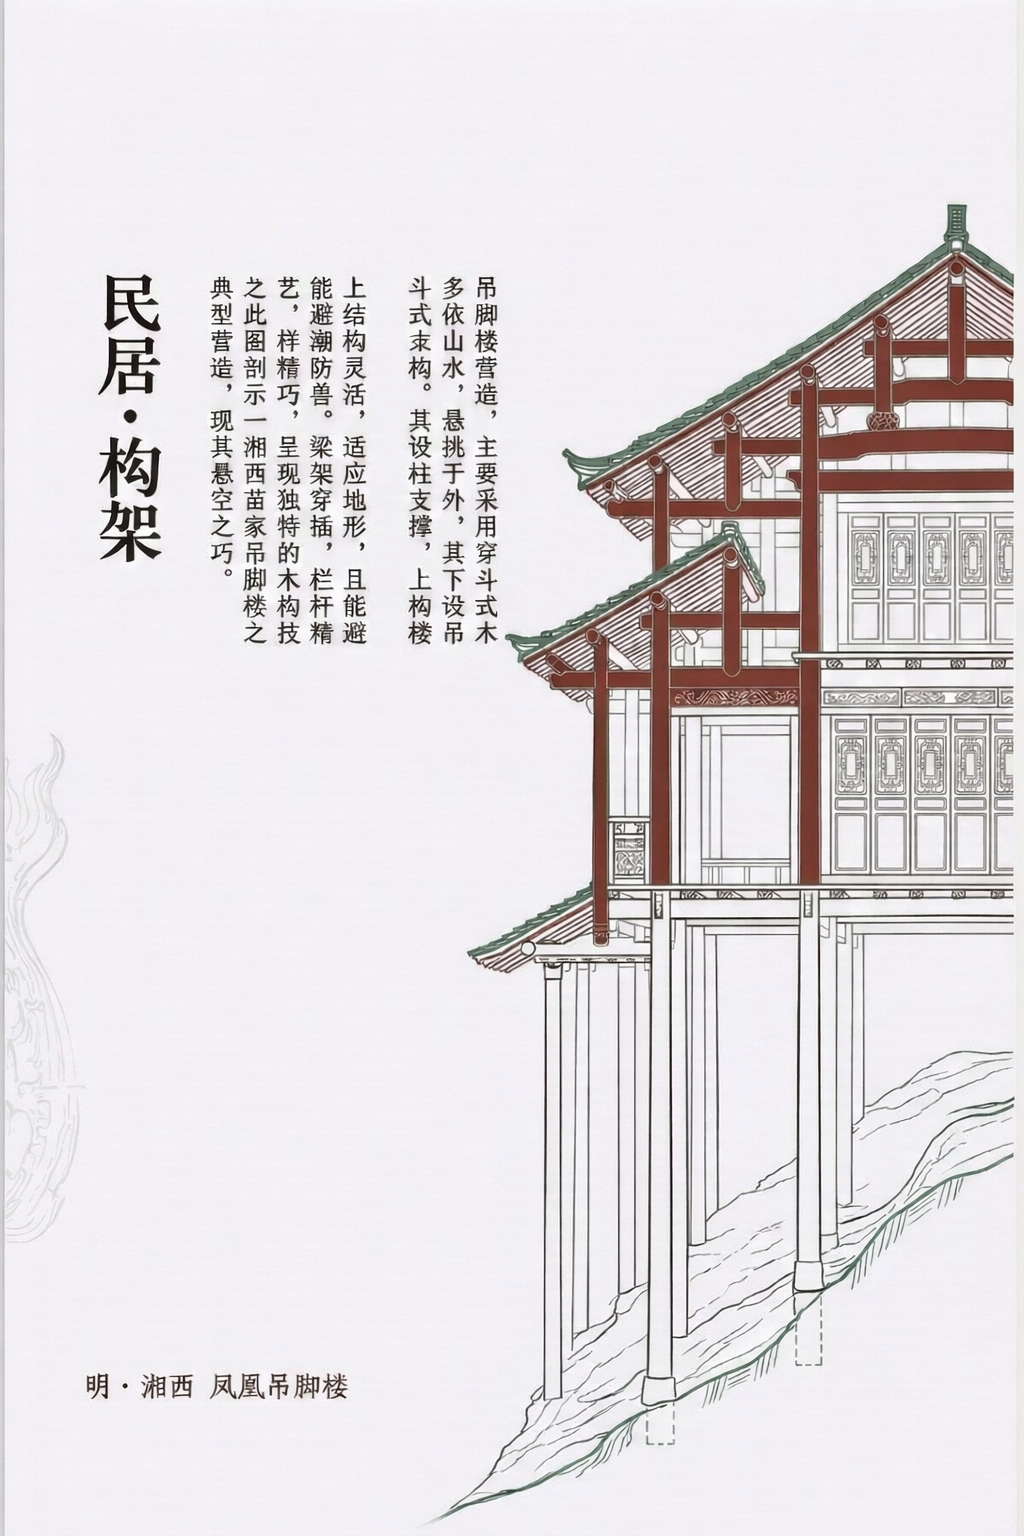
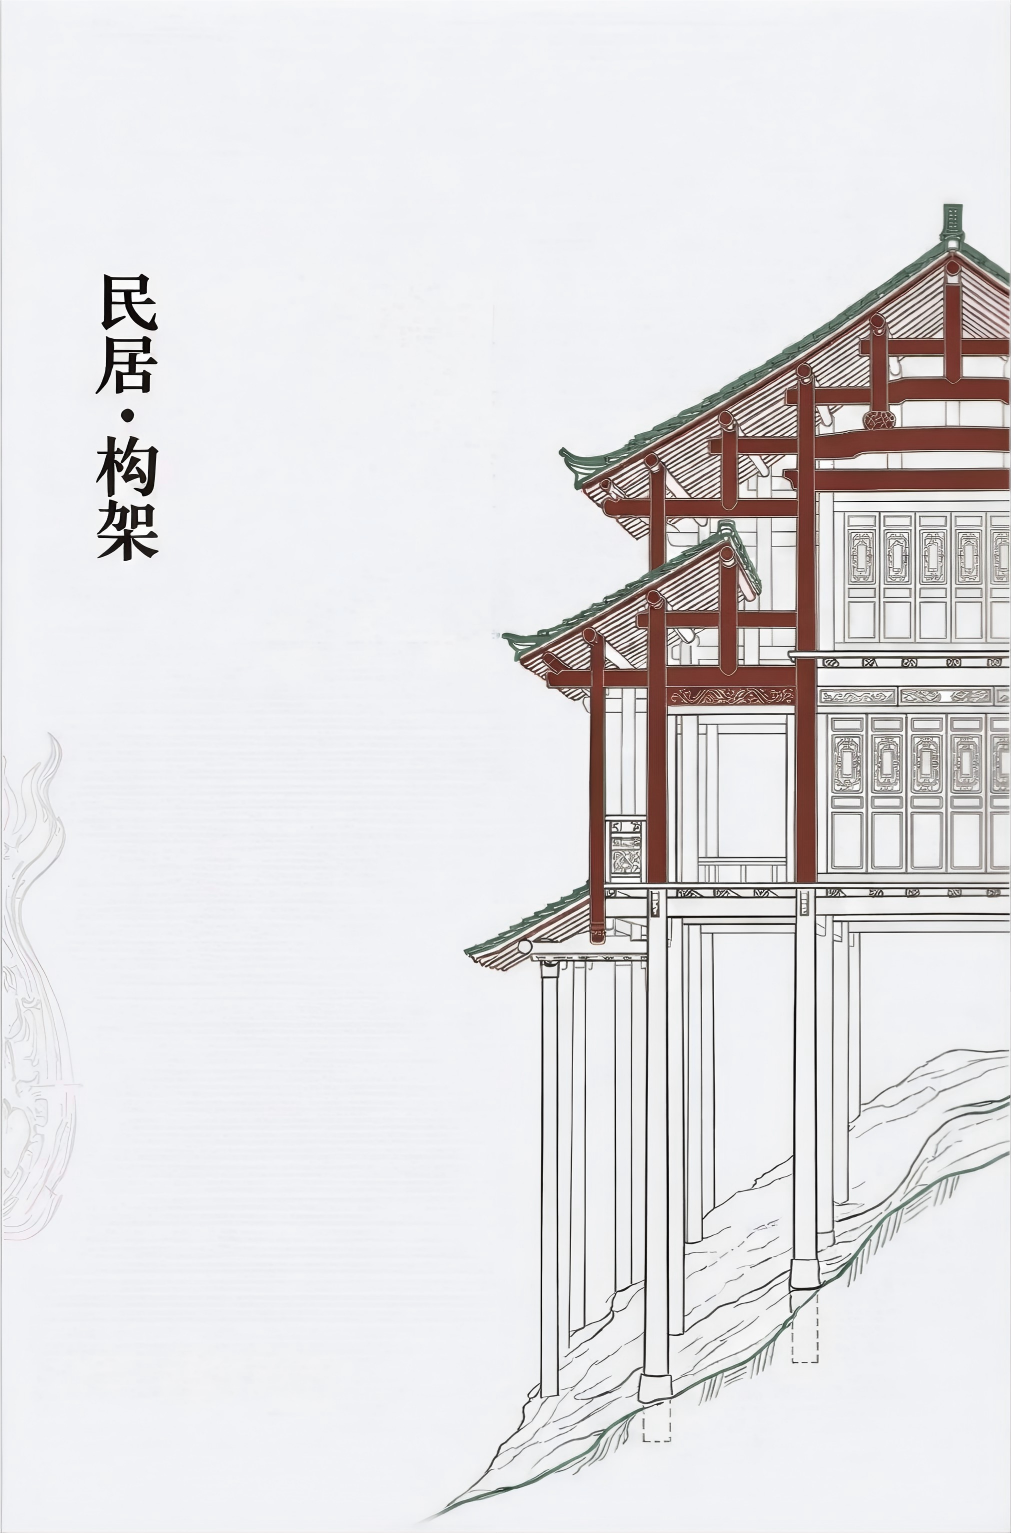
feat: update building section cover posters

diff --git a/src/views/BuildingSectionDemoView.vue b/src/views/BuildingSectionDemoView.vue
@@ -64,6 +64,17 @@
                   <p>{{ category.summary }}</p>
                 </div>
               </div>
+              <div v-else class="category-slab__poster-copy">
+                <div class="category-slab__poster-head">
+                  <div class="category-slab__seal">{{ category.seal }}</div>
+                  <div class="category-slab__poster-title-wrap">
+                    <div class="category-slab__title">{{ category.title }}</div>
+                    <div class="category-slab__alias">{{ category.alias }}</div>
+                    <div class="category-slab__english">{{ category.english }}</div>
+                  </div>
+                </div>
+                <p>{{ category.summary }}</p>
+              </div>
 
               <div class="category-slab__art">
                 <ArchitectureSketch
@@ -386,12 +397,20 @@ watch(
   min-height: 0;
 }
 
+.stage--home {
+  margin: -14px;
+  height: calc(100% + 28px);
+}
+
 .category-grid {
   height: 100%;
   min-height: 0;
   display: grid;
   grid-template-columns: repeat(4, minmax(0, 1fr));
-  gap: 14px;
+  gap: 0;
+  background:
+    linear-gradient(180deg, rgba(244, 238, 227, 0.18), rgba(233, 225, 210, 0.1)),
+    rgba(241, 235, 224, 0.16);
 }
 
 .category-slab {
@@ -402,15 +421,30 @@ watch(
   flex-direction: column;
   justify-content: space-between;
   overflow: hidden;
-  padding: 18px;
-  border: 1px solid rgba(147, 116, 93, 0.16);
-  background:
-    linear-gradient(180deg, rgba(248, 243, 235, 0.74), rgba(236, 228, 214, 0.86)),
-    linear-gradient(180deg, rgba(255, 255, 255, 0.14), transparent 44%);
-  box-shadow: 0 14px 30px rgba(72, 54, 41, 0.08);
+  padding: 26px 20px 22px;
+  border: none;
+  background: transparent;
+  box-shadow: none;
   text-align: left;
   cursor: pointer;
-  transition: transform 0.28s ease, box-shadow 0.28s ease, border-color 0.28s ease, filter 0.28s ease;
+  isolation: isolate;
+  transition: transform 0.28s ease, filter 0.28s ease, background-color 0.28s ease;
+}
+
+.category-slab::after {
+  content: '';
+  position: absolute;
+  top: 0;
+  right: 0;
+  width: 1px;
+  height: 100%;
+  background:
+    linear-gradient(180deg, transparent, rgba(126, 98, 78, 0.22) 14%, rgba(126, 98, 78, 0.26) 80%, transparent);
+  opacity: 0.95;
+}
+
+.category-slab:last-child::after {
+  display: none;
 }
 
 .category-slab--poster {
@@ -444,9 +478,10 @@ watch(
   position: absolute;
   inset: 0;
   background:
-    linear-gradient(180deg, rgba(255, 255, 255, 0.18), transparent 35%),
-    radial-gradient(circle at 78% 20%, color-mix(in srgb, var(--accent-color) 8%, transparent), transparent 30%);
-  opacity: 0.88;
+    linear-gradient(180deg, rgba(255, 255, 255, 0.12), transparent 30%),
+    linear-gradient(180deg, rgba(218, 208, 192, 0.12), transparent 55%),
+    radial-gradient(circle at 78% 20%, color-mix(in srgb, var(--accent-color) 6%, transparent), transparent 32%);
+  opacity: 0.72;
 }
 
 .category-slab--poster::before {
@@ -456,10 +491,8 @@ watch(
 }
 
 .category-slab:hover {
-  transform: translateY(-6px) scale(1.01);
-  border-color: color-mix(in srgb, var(--outline-color) 28%, rgba(147, 116, 93, 0.2));
-  box-shadow: 0 20px 38px rgba(72, 54, 41, 0.14);
-  filter: saturate(1.06);
+  transform: translateY(-2px);
+  filter: saturate(1.05);
 }
 
 .category-slab:hover .category-slab__photo {
@@ -484,11 +517,11 @@ watch(
       rgba(114, 86, 66, 0.04) 23px,
       rgba(114, 86, 66, 0.04) 24px
     );
-  opacity: 0.95;
+  opacity: 0.58;
 }
 
 .category-slab--poster .category-slab__overlay {
-  opacity: 0.3;
+  opacity: 0.22;
 }
 
 .category-slab--poster .category-slab__content,
@@ -496,11 +529,16 @@ watch(
   background: transparent;
 }
 
+.category-slab--poster:hover .category-slab__poster-copy {
+  background: rgba(248, 245, 242, 0.68);
+}
+
 .category-slab--poster:hover .category-slab__overlay {
   opacity: 0.1;
 }
 
 .category-slab__content,
+.category-slab__poster-copy,
 .category-slab__art,
 .category-slab__enter {
   position: relative;
@@ -512,6 +550,38 @@ watch(
   grid-template-columns: 52px minmax(0, 1fr);
   gap: 12px;
   align-items: start;
+  max-width: 260px;
+}
+
+.category-slab__poster-copy {
+  display: grid;
+  gap: 10px;
+  align-self: flex-start;
+  width: min(252px, calc(100% - 28px));
+  padding: 12px 14px;
+  border: 1px solid rgba(146, 118, 97, 0.14);
+  background: rgba(244, 239, 235, 0.46);
+  box-shadow: 0 8px 20px rgba(70, 52, 41, 0.05);
+  backdrop-filter: blur(4px);
+}
+
+.category-slab__poster-head {
+  display: grid;
+  grid-template-columns: 44px minmax(0, 1fr);
+  gap: 10px;
+  align-items: start;
+}
+
+.category-slab__poster-title-wrap {
+  min-width: 0;
+}
+
+.category-slab__poster-copy p {
+  margin: 0;
+  font-family: 'ContentFont', serif;
+  font-size: 12px;
+  line-height: 1.76;
+  color: rgba(78, 58, 47, 0.82);
 }
 
 .category-slab__seal {
@@ -565,7 +635,7 @@ watch(
 .category-slab__art {
   flex: 1 1 auto;
   min-height: 0;
-  margin-top: 14px;
+  margin-top: 18px;
   transform-origin: center bottom;
   transition: transform 0.28s ease;
 }
@@ -575,7 +645,7 @@ watch(
 }
 
 .category-slab:hover .category-slab__art {
-  transform: scale(1.06) translateY(-6px);
+  transform: scale(1.03) translateY(-2px);
 }
 
 .category-slab__enter {
@@ -594,7 +664,7 @@ watch(
   align-self: flex-end;
   margin-top: 0;
   color: #6c4539;
-  background: rgba(248, 243, 236, 0.62);
+  background: rgba(248, 243, 236, 0.42);
   backdrop-filter: blur(5px);
 }
 
@@ -926,6 +996,12 @@ watch(
   .category-grid {
     grid-template-columns: 1fr;
     height: auto;
+  }
+
+  .stage--home {
+    margin: -10px;
+    height: auto;
+    min-height: calc(100vh - 20px);
   }
 
   .category-slab__art {

diff --git a/src/demo/building-section-catalog/catalog.ts b/src/demo/building-section-catalog/catalog.ts
@@ -1,4 +1,7 @@
 import type { BuildingCategory } from './types';
+import bridgeCover from '@/assets/images/building-covers/bridge-cover.png';
+import officeCover from '@/assets/images/building-covers/office-cover.png';
+import palaceCover from '@/assets/images/building-covers/palace-cover.png';
 import residenceCover from '@/assets/images/building-covers/residence-cover.png';
 
 export const buildingCatalog: BuildingCategory[] = [
@@ -157,6 +160,10 @@ export const buildingCatalog: BuildingCategory[] = [
     accent: '#a44a3d',
     outline: '#7c3029',
     coverVariant: 'office-yamen',
+    coverImage: officeCover,
+    coverPosition: 'center center',
+    coverSize: 'contain',
+    useCoverAsPoster: true,
     groups: [
       {
         id: 'office-songyuan',
@@ -297,6 +304,10 @@ export const buildingCatalog: BuildingCategory[] = [
     accent: '#3e6f61',
     outline: '#2a5449',
     coverVariant: 'palace-hall',
+    coverImage: palaceCover,
+    coverPosition: 'center center',
+    coverSize: 'contain',
+    useCoverAsPoster: true,
     groups: [
       {
         id: 'palace-tangsong',
@@ -437,6 +448,10 @@ export const buildingCatalog: BuildingCategory[] = [
     accent: '#b4824f',
     outline: '#8d6438',
     coverVariant: 'bridge-arch',
+    coverImage: bridgeCover,
+    coverPosition: 'center center',
+    coverSize: 'contain',
+    useCoverAsPoster: true,
     groups: [
       {
         id: 'bridge-stone',
